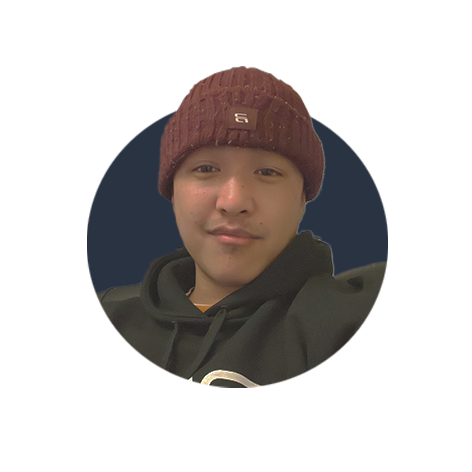
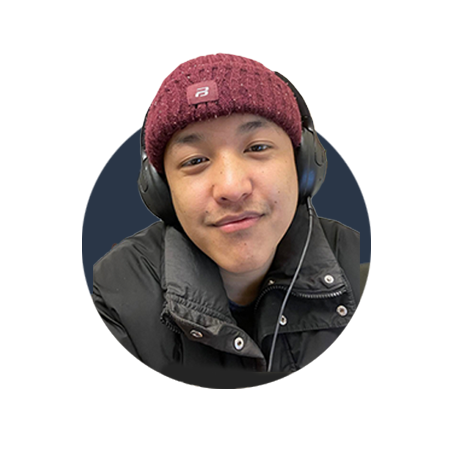
update profile pic

Changed region(s): [[0.1483, 0.089, 0.8305, 0.8305]]

diff --git a/index.html b/index.html
@@ -136,7 +136,7 @@
                 <div class="row">
                     <div class="col-lg-4 ms-auto"><p class="lead">
                        My name is Hemant Gurung and I am currently studying in Digital Arts and Entertainment at Howest University. 
-                       By writing a lot of codes and making projects in school, I have gained basic knowledge in pipeline of Game Development.
+                       By writing codes and making projects in school, I have gained basic knowledge in pipeline of Game Development.
                     
                 
                     </p></div>
@@ -394,7 +394,7 @@
                             <div class="row justify-content-center">
                                 <div class="col-lg-8">
                                     <!-- Portfolio Modal - Title-->
-                                    <h2 class="portfolio-modal-title text-secondary text-uppercase mb-0">Circus Tent</h2>
+                                    <h2 class="portfolio-modal-title text-secondary text-uppercase mb-0"> Ray tracing</h2>
                                     <!-- Icon Divider-->
                                     <div class="divider-custom">
                                         <div class="divider-custom-line"></div>
@@ -404,7 +404,13 @@
                                     <!-- Portfolio Modal - Image-->
                                     <img class="img-fluid rounded mb-5" src="assets/img/portfolio/portfolio2.jpg" alt="..." />
                                     <!-- Portfolio Modal - Text-->
-                                    <p class="mb-4">Lorem ipsum dolor sit amet, consectetur adipisicing elit. Mollitia neque assumenda ipsam nihil, molestias magnam, recusandae quos quis inventore quisquam velit asperiores, vitae? Reprehenderit soluta, eos quod consequuntur itaque. Nam.</p>
+                                    <p class="mb-4">
+                                        Ray tracing is a method of graphics rendering that simulates the physical behavior of light which 
+                                        includes the reflection, refractions, shadows and indirect ligting. All of the simulation are done using 
+                                        3D maths and formulas.
+                                        <a href="https://github.com/Hemant-Gurung/RayTracing.git"> go to the source code </a>
+                                        
+                                         </p>
                                     <button class="btn btn-primary" data-bs-dismiss="modal">
                                         <i class="fas fa-xmark fa-fw"></i>
                                         Close Window
@@ -467,7 +473,7 @@
                             <div class="row justify-content-center">
                                 <div class="col-lg-8">
                                     <!-- Portfolio Modal - Title-->
-                                    <h2 class="portfolio-modal-title text-secondary text-uppercase mb-0">Locked Safe</h2>
+                                    <h2 class="portfolio-modal-title text-secondary text-uppercase mb-0">DodgeBattle</h2>
                                     <!-- Icon Divider-->
                                     <div class="divider-custom">
                                         <div class="divider-custom-line"></div>
@@ -477,7 +483,13 @@
                                     <!-- Portfolio Modal - Image-->
                                     <img class="img-fluid rounded mb-5" src="assets/img/portfolio/DodgeBall.gif" alt="..." />
                                     <!-- Portfolio Modal - Text-->
-                                    <p class="mb-4">Lorem ipsum dolor sit amet, consectetur adipisicing elit. Mollitia neque assumenda ipsam nihil, molestias magnam, recusandae quos quis inventore quisquam velit asperiores, vitae? Reprehenderit soluta, eos quod consequuntur itaque. Nam.</p>
+                                    <p class="mb-4">
+                                       DodgeBattle is a game that is made using overlord engine where we had to write the main function like parsing the files, 
+                                       reading bones, makeing animations, making the game mesh, colliders,joints etc. This helped me gain a vast knowledge on 
+                                       how the games actually bring everything together in one place, how the skinning is done in software and in hardware, how 
+                                       texture is read and applied etc. 
+                                       <a href="https://github.com/Hemant-Gurung/The-DodgeBattle"> see the source code</a>
+                                        </p>
                                     <button class="btn btn-primary" data-bs-dismiss="modal">
                                         <i class="fas fa-xmark fa-fw"></i>
                                         Close Window
